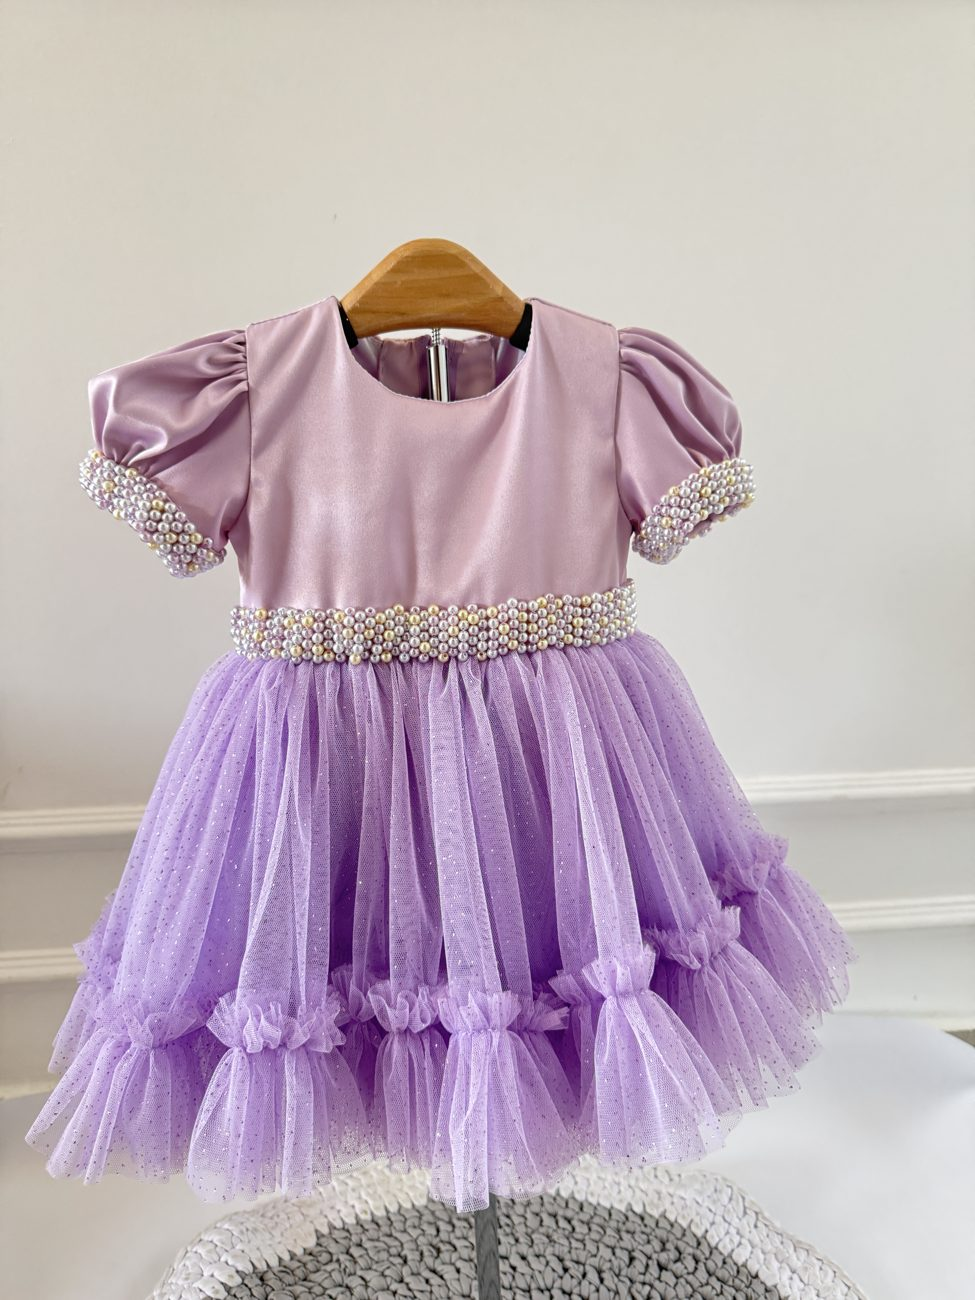
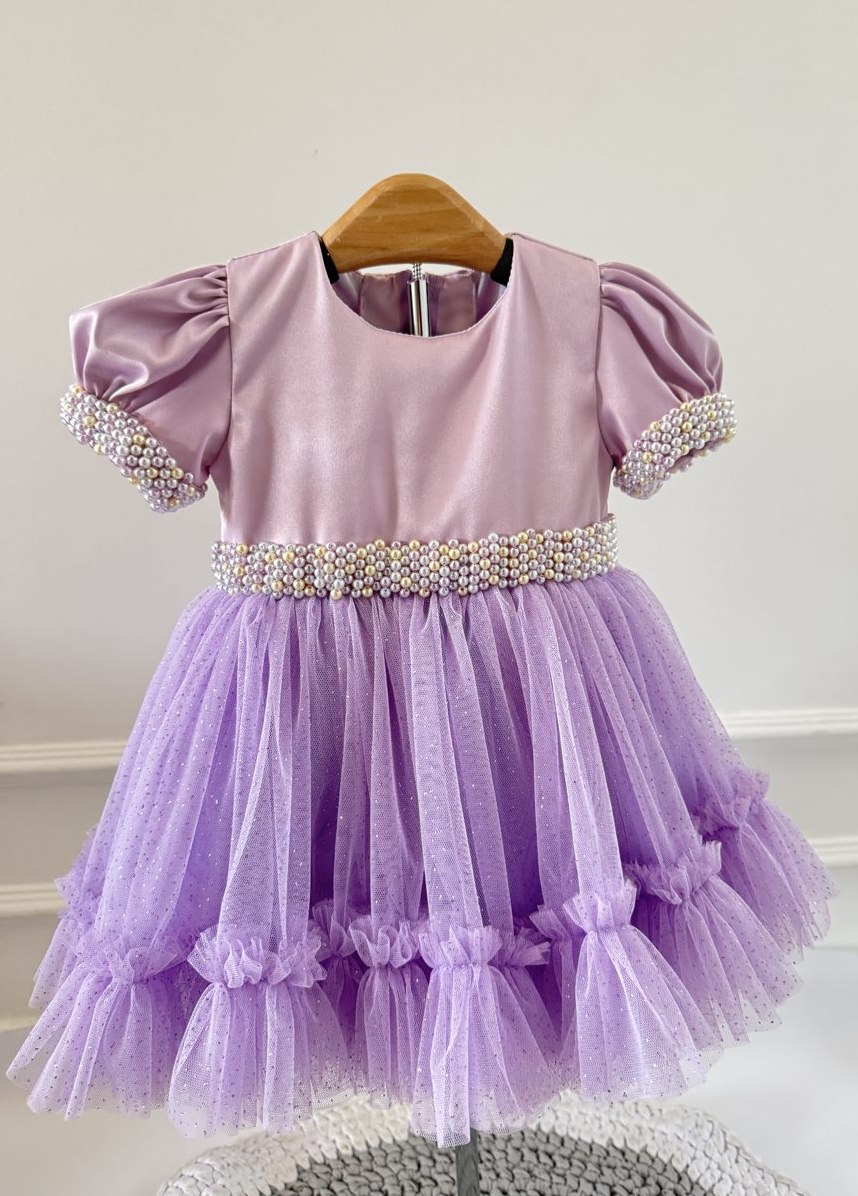
Galería: centrar mejor "Bordado" y "Confección a la medida"
El ancho del tile crece con la pantalla (sin max-width), así que en
pantallas anchas object-fit:cover recortaba arriba/abajo y descuadraba.

- "Bordado": re-recorte del original a ~1.40 con el logo centrado y
  margen de polo a los lados -> "Happy Time" completo y centrado en el
  rango 1.26-1.50 de ratio.
- "Confección a la medida": el vestido estaba ~0.46 del ancho (corrido a
  la izquierda). Re-recorte horizontal para centrarlo + object-position
  56% para subirlo. Verificado a 1.26/1.38/1.50 y en móvil.

diff --git a/index.html b/index.html
@@ -465,7 +465,7 @@ a.service-row { text-decoration: none; color: inherit; }
     <div class="g-item"><img src="imagenes/taller/dtf-cool-people.jpg" alt="Camiseta negra con estampado DTF naranja" loading="lazy" style="object-position:center 18%"><span class="g-cap">Camiseta DTF</span></div>
     <div class="g-item"><img src="imagenes/taller/dtf-negroni.jpg" alt="Estampado DTF a todo color sobre camiseta negra" loading="lazy"><span class="g-cap">DTF a todo color</span></div>
     <div class="g-item"><img src="imagenes/taller/bordado-happytime.jpg" alt="Bordado del logo Happy Time sobre el polo del uniforme escolar" loading="lazy"><span class="g-cap">Bordado</span></div>
-    <div class="g-item"><img src="imagenes/taller/vestido-full.jpg" alt="Vestido de gala infantil en tul, confección personalizada a medida" loading="lazy" style="object-position:center 46%"><span class="g-cap">Confección a la medida</span></div>
+    <div class="g-item"><img src="imagenes/taller/vestido-full.jpg" alt="Vestido de gala infantil en tul, confección personalizada a medida" loading="lazy" style="object-position:center 56%"><span class="g-cap">Confección a la medida</span></div>
     <div class="g-item"><img src="imagenes/taller/vestido-detalle.jpg" alt="Detalle del moño de satén y la pedrería del vestido hecho a medida" loading="lazy"><span class="g-cap">Acabados artesanales</span></div>
   </div>
 </section>
